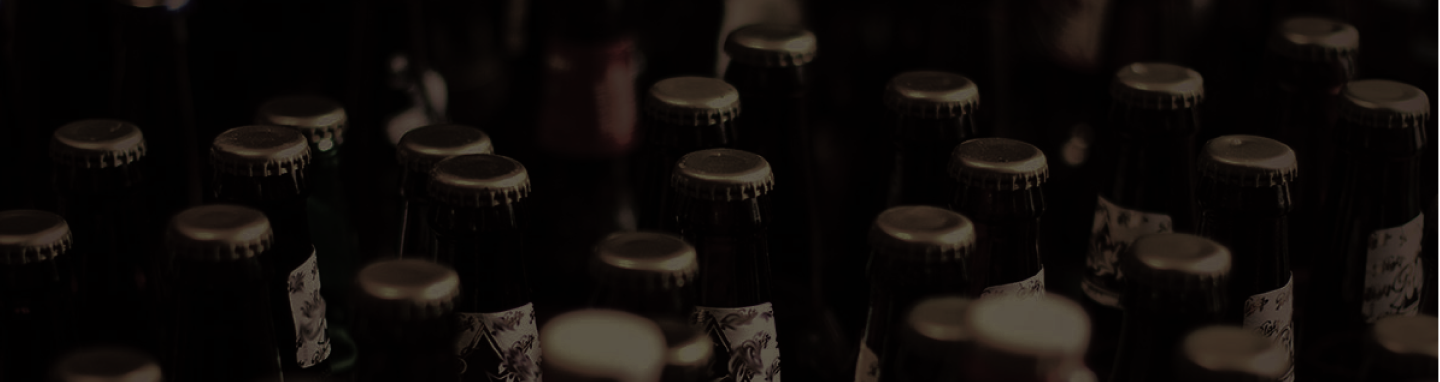
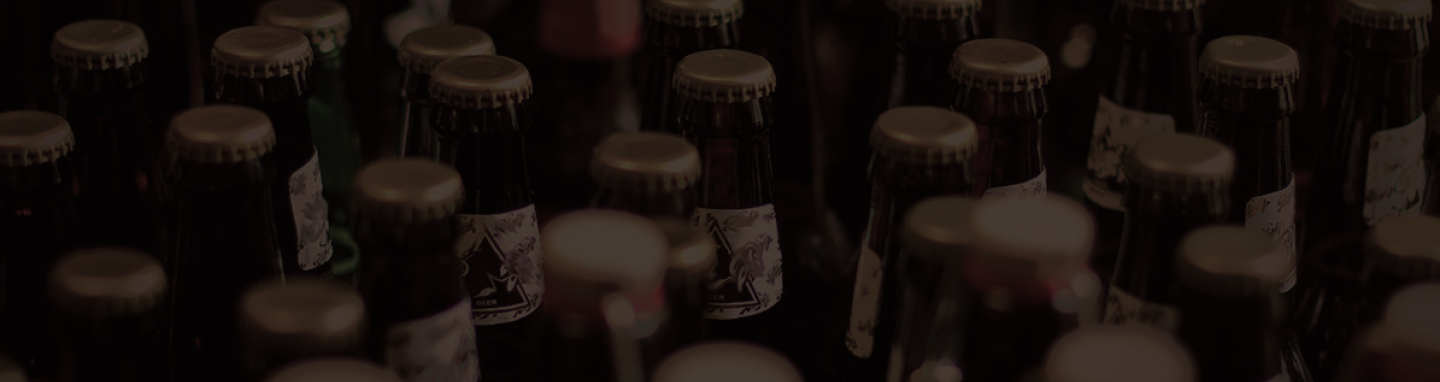
Changed some Home PAge: Will leave the layouts to you
Changed hero image in the Homepage, and nave color just for Home page

diff --git a/css/pattern.css b/css/pattern.css
@@ -39,6 +39,11 @@
  position: relative;
 }
 
+.homenav_img{
+  background-image: url("bg_img.png");
+  min-height: 5rem;
+}
+
 .hero_img{
   background-image: url("../img/hero_img.png");
 
@@ -58,9 +63,8 @@
   overflow: hidden;
   font-family:Oswald, Arial, sans-serif;
 
-
-
 }
+
 
 .navfont a {
   float: left;
@@ -72,13 +76,32 @@
 
 }
 
+.nav_home{
+   overflow: hidden;
+  font-family:Oswald, Arial, sans-serif;
+  }
+
+  .nav_home a {
+  float: left;
+  font-size: 1.5rem;
+  color: #3A2E2A;
+  text-align: center;
+  padding: 14px 16px;
+  text-decoration: none;
+
+}
+
+.nav_home_dropfont{
+  color: #3A2E2A;
+}
+
 .dropdown {
   float: left;
   overflow: hidden;
 }
 
 
-.navfont a:hover, .dropdown:hover .dropbtn {
+.navfont a:hover, .nav_home a:hover,  .dropdown:hover .dropbtn, .dropdown:hover .home_dropbtn{
   color: #FFAF34;
 }
 
@@ -91,6 +114,18 @@
   background-color: inherit;
   font-family: inherit;
   margin: 0;
+}
+
+.home_dropbtn{
+    font-size: 1.5rem; 
+  border: none;
+  outline: none;
+  color: #3A2E2A;
+  padding: 14px 16px;
+  background-color: inherit;
+  font-family: inherit;
+  margin: 0;
+  
 }
 
 .dropdown-content {

diff --git a/home.html b/home.html
@@ -17,13 +17,13 @@
 <body>
     <div class="hero_img" >
 		<header>
-			<nav class = "navfont">
+			<nav class = "nav_home">
 				<img class ="logo left" src = "img/logo.png" alt="logoimage" width="82" height="57">
 				<div class = "navbtn_pos">
 					<a href="home.html">HOME</a>
 					<a href="Shop.html">SHOP</a>
 					<div class ="dropdown">
-						<button class="dropbtn">ABOUT</button>
+						<button class="home_dropbtn">ABOUT</button>
 						<div class="dropdown-content">
 							<a href="AboutUs.html">ABOUT US</a>
 							<a href="FAQ.html">FAQ</a>
